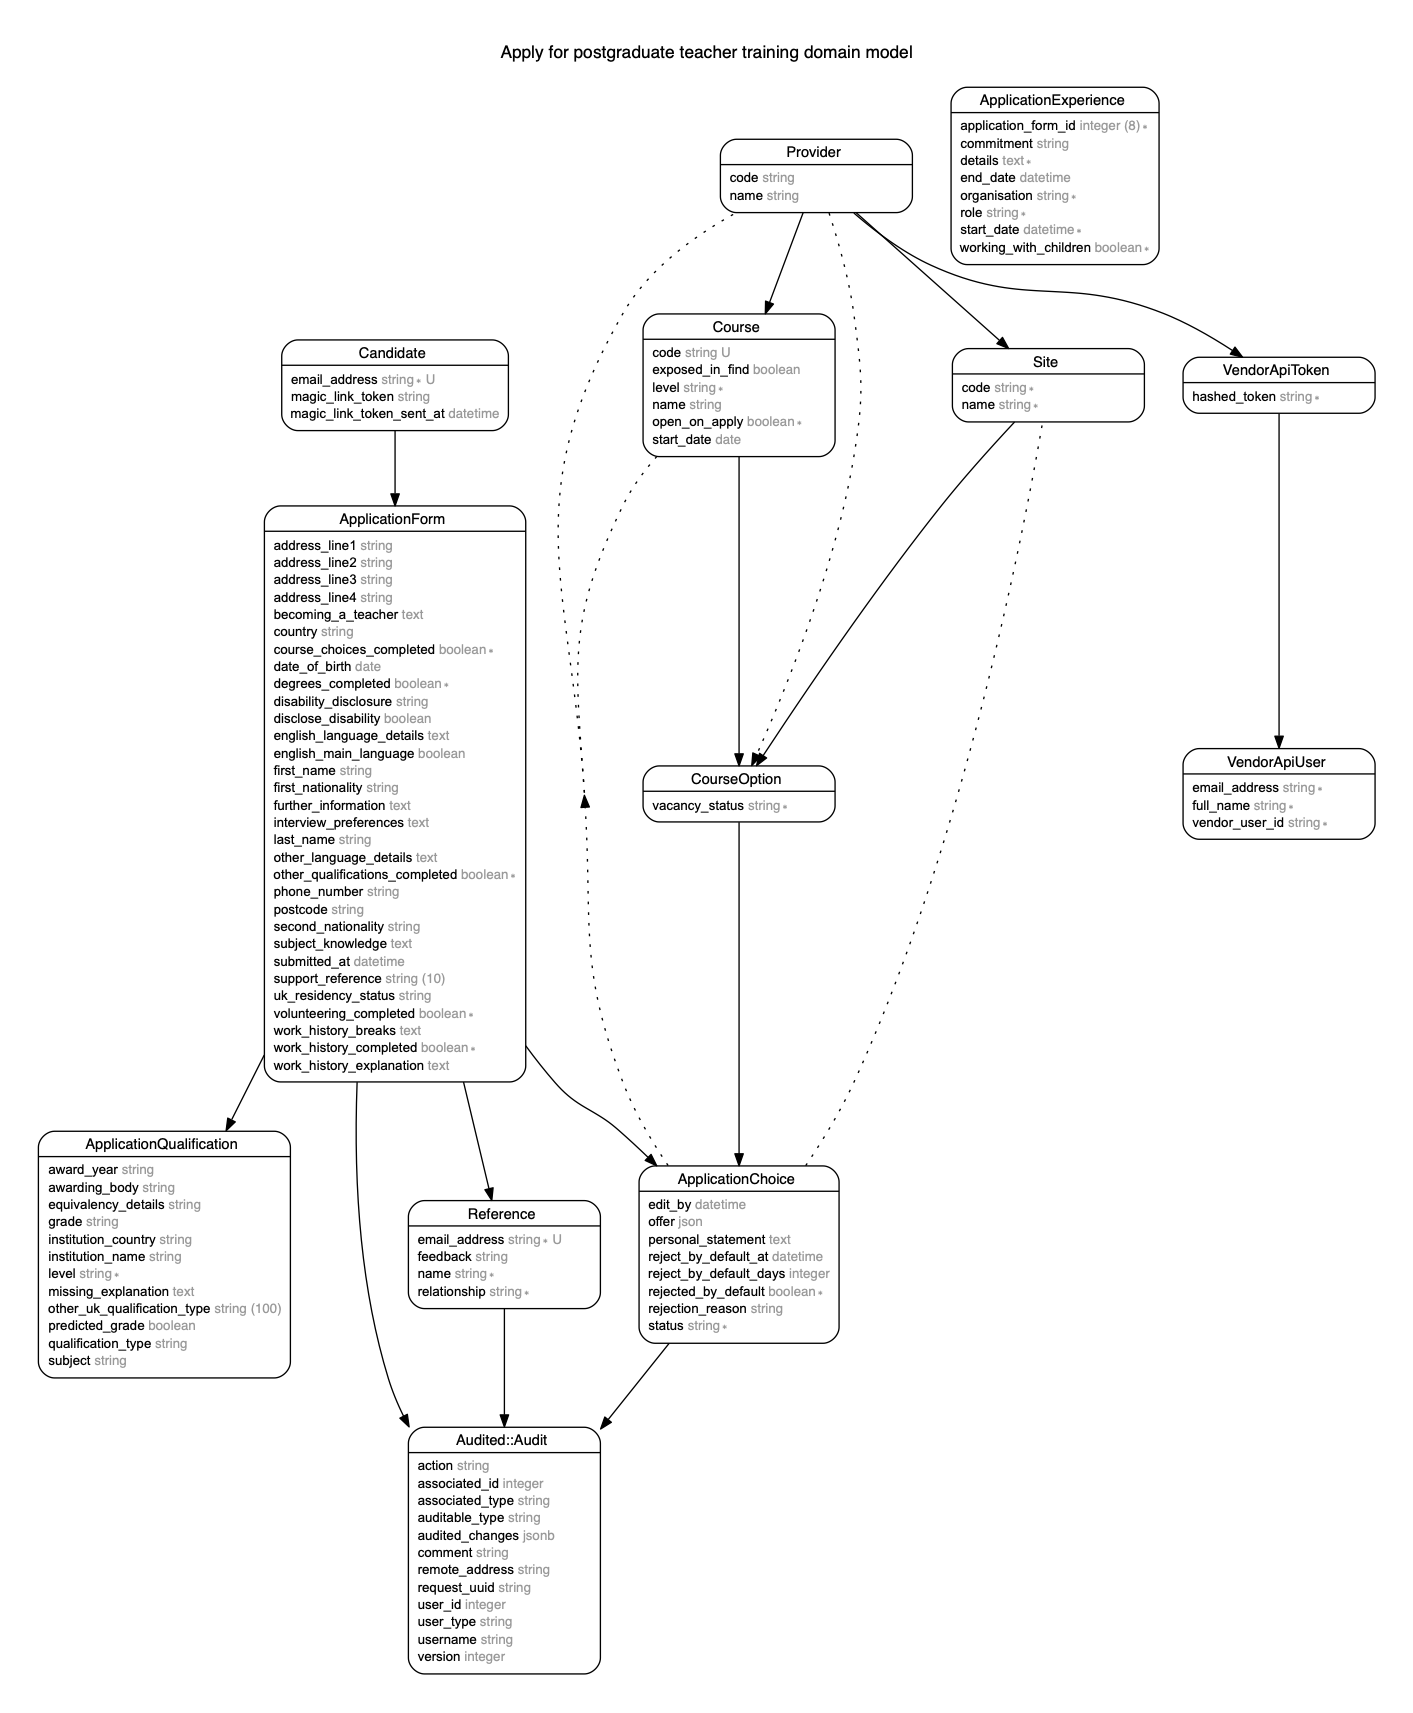
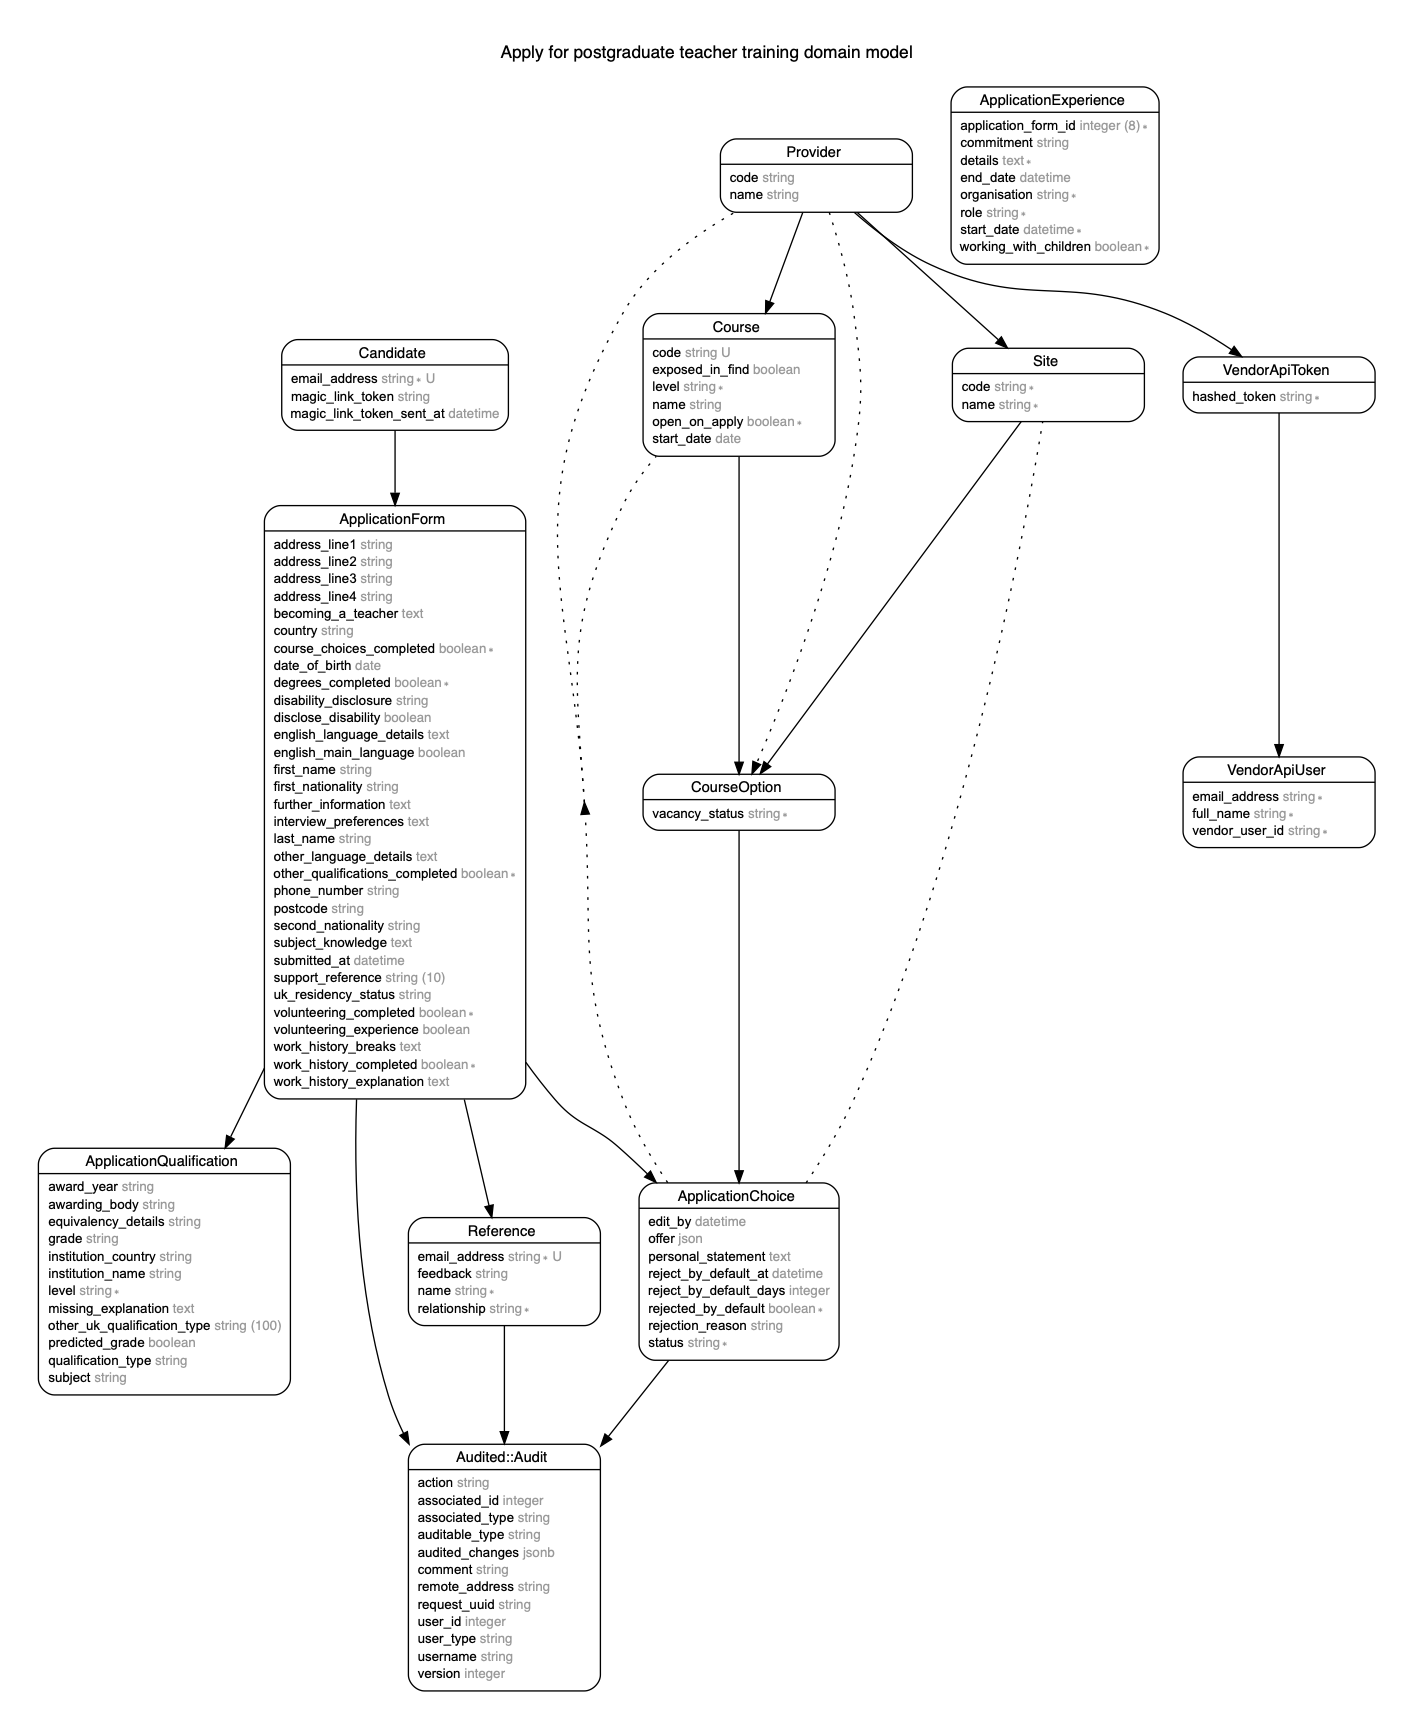
Add volunteering_experience to ApplicationForm

diff --git a/db/schema.rb b/db/schema.rb
@@ -10,7 +10,7 @@
 #
 # It's strongly recommended that you check this file into your version control system.
 
-ActiveRecord::Schema.define(version: 2019_11_21_134801) do
+ActiveRecord::Schema.define(version: 2019_11_27_105827) do
 
   # These are extensions that must be enabled in order to support this database
   enable_extension "pgcrypto"
@@ -83,6 +83,7 @@ ActiveRecord::Schema.define(version: 2019_11_21_134801) do
     t.text "work_history_breaks"
     t.boolean "course_choices_completed", default: false, null: false
     t.boolean "volunteering_completed", default: false, null: false
+    t.boolean "volunteering_experience"
     t.index ["candidate_id"], name: "index_application_forms_on_candidate_id"
   end
 

diff --git a/spec/factories.rb b/spec/factories.rb
@@ -35,6 +35,7 @@ FactoryBot.define do
       interview_preferences { Faker::Lorem.paragraph_by_chars(number: 100) }
       work_history_explanation { Faker::Lorem.paragraph_by_chars(number: 600) }
       work_history_breaks { Faker::Lorem.paragraph_by_chars(number: 400) }
+      volunteering_experience { [true, false, nil].sample }
 
       transient do
         application_choices_count { 3 }

diff --git a/db/migrate/20191127105827_add_volunteering_experience_to_application_form.rb b/db/migrate/20191127105827_add_volunteering_experience_to_application_form.rb
@@ -1,0 +1,5 @@
+class AddVolunteeringExperienceToApplicationForm < ActiveRecord::Migration[6.0]
+  def change
+    add_column :application_forms, :volunteering_experience, :boolean
+  end
+end
